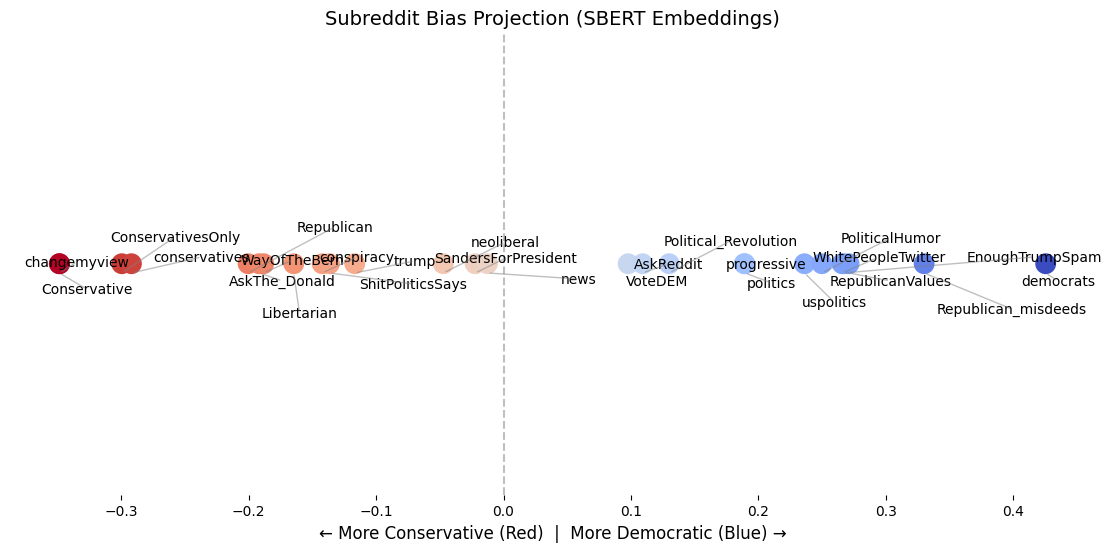
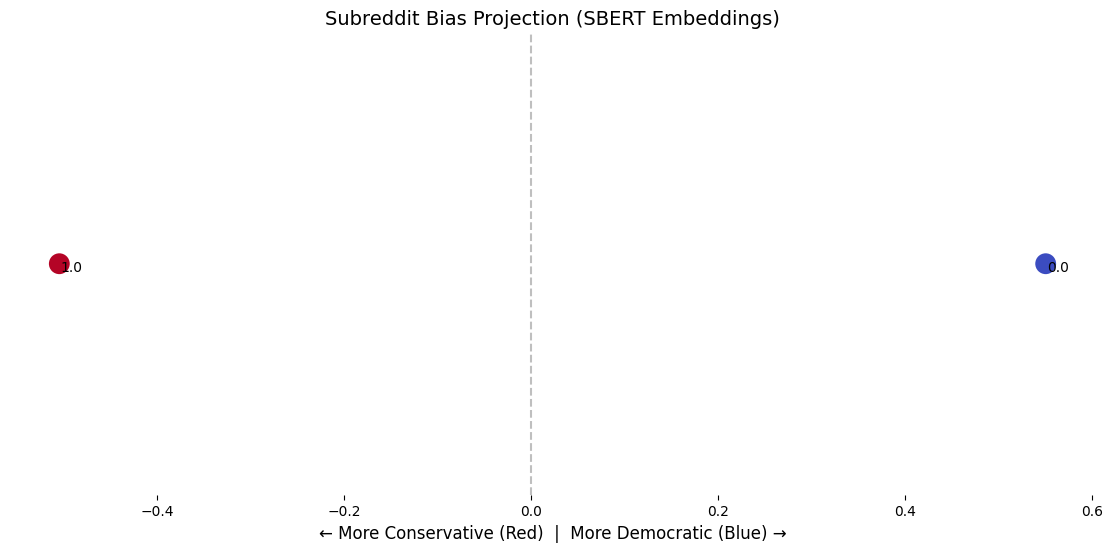
fix: topics

diff --git a/partisannet/data/topicmodule.py b/partisannet/data/topicmodule.py
@@ -4,13 +4,24 @@ from datasets import Dataset
 import os
 from partisannet.data.datamodule import get_dataloaders
 from partisannet.models.get_embeddings import generate_embeddings
-
-
+from sklearn.cluster import KMeans
+import numpy as np
 
 def get_topics(docs: list[str], num_topics: int | None = None, remove_stopwords: bool = False, embeddings=None, embedding_model=None) -> tuple[BERTopic, list[int], list[float]]:
 
     vectorizer = CountVectorizer(stop_words='english' if remove_stopwords else None, ngram_range=(1,2))
-    topic_model = BERTopic(nr_topics=num_topics, vectorizer_model=vectorizer, embedding_model=embedding_model)
+    hdbscan_model = None
+    if num_topics is not None:
+        print(f"Using K-Means to force {num_topics} balanced clusters...")
+        hdbscan_model = KMeans(n_clusters=num_topics, random_state=42)
+        # Set nr_topics to None because the clustering model already handles the count
+        nr_topics_arg = None 
+    else:
+        # Fallback to default behavior if no number is given
+        nr_topics_arg = "auto"
+
+    topic_model = BERTopic(nr_topics=nr_topics_arg, vectorizer_model=vectorizer, embedding_model=embedding_model, hdbscan_model=hdbscan_model)
+    
     if embeddings is not None:
         if hasattr(embeddings, "cpu"):
             embeddings = embeddings.cpu().numpy()
@@ -71,7 +82,6 @@ def include_topics(dataset: Dataset, num_topics: int | None = None, remove_stopw
         dataset = dataset.remove_columns('topic_prob')
 
     dataset = dataset.add_column('topic', topics)
-    dataset = dataset.add_column('topic_prob', probs)
 
     return dataset, topic_model
 
@@ -116,7 +126,9 @@ def load_topic_model(dataset_name: str, embedding_model=None, renew_cache=False,
 
     if os.path.exists(topic_model_cache_path) and not renew_cache:
         print("Loading topic model from disk...")
-        topic_model = BERTopic.load(topic_model_cache_path, embedding_model=embedding_model)        
+        topic_model = BERTopic.load(topic_model_cache_path, embedding_model=embedding_model)
+        centroid_matrix = np.load(os.path.join(topic_model_cache_path, "centroid_matrix.npy"))
+        topic_labels = np.load(os.path.join(topic_model_cache_path, "topic_labels.npy"), allow_pickle=True).tolist()
     else:
         dataloaders = get_dataloaders(dataset_name, batch_size=32, split=False, renew_cache=renew_cache)
         embeddings, partisan_labels, _ = generate_embeddings(dataloaders['train'], path = embedding_model)
@@ -125,9 +137,22 @@ def load_topic_model(dataset_name: str, embedding_model=None, renew_cache=False,
         topic_model.save(topic_model_cache_path, serialization="safetensors", save_embedding_model=True)
         print("Sample topics from dataset:")
         for i in range(5):
-            print(f"Doc: {ds[i]['text'][:50]}... Topic: {ds[i]['topic']}, Prob: {ds[i]['topic_prob']}")
+            print(f"Doc: {ds[i]['text'][:50]}... Topic: {ds[i]['topic']}")
+        unique_topics = sorted(list(set(ds['topic'])))
+        if -1 in unique_topics: unique_topics.remove(-1)
 
-    return topic_model
+        centroid_matrix = []
+        topic_labels = []
+        for topic in unique_topics:
+            
+            topic_embeddings = embeddings[ds['topic'] == topic]
+            centroid = topic_embeddings.mean(axis=0)
+            centroid_matrix.append(centroid)
+            topic_labels.append(topic_model.get_topic_info(topic)['Name']) 
+        centroid_matrix =  np.array(centroid_matrix)
+        np.save(os.path.join(topic_model_cache_path, "centroid_matrix.npy"), centroid_matrix)
+        np.save(os.path.join(topic_model_cache_path, "topic_labels.npy"), np.array(topic_labels, dtype=object))
+    return topic_model, centroid_matrix, topic_labels
 
 
 if __name__ == "__main__":

diff --git a/linerasure.py b/linerasure.py
@@ -348,7 +348,65 @@ if __name__ == "__main__":
     trained_embeddings = True
     test = True
 
-    topic_model = load_topic_model("DemRep", embedding_model="data/fine_tuned_sbert", renew_cache=False, num_topics=None, cluster_in_k=10)
+    centroid_test = True
+    
+    topic_model, X_centroids, topic_labels = load_topic_model("topic_data", embedding_model="data/centerloss_sbert", renew_cache=False, num_topics=30, cluster_in_k=None)
+    
+    if centroid_test:
+        from sentence_transformers import SentenceTransformer
+        
+        derived_direction = np.load('data/cached_data/political_axis.npy')
+        direction = derived_direction / np.linalg.norm(derived_direction)
+
+        def remove_component(embeddings, direction):
+            projections = (embeddings @ direction.T).reshape(-1, 1) * direction
+            return embeddings - projections
+
+        X_erased = remove_component(X_centroids, direction)
+
+        # --- 4. Plotting (PCA is usually better than UMAP for centroids) ---
+        from sklearn.decomposition import PCA
+
+        # Fit PCA on the ORIGINAL to define the axes, then transform both
+        # This keeps the "view" consistent so you can see them move
+        pca = PCA(n_components=2)
+        coords_orig = pca.fit_transform(X_centroids)
+        coords_erased = pca.transform(X_erased) # Use same axes!
+
+        # Visualization
+        fig, axes = plt.subplots(1, 2, figsize=(16, 8))
+
+        # Plot A: Original Centroids
+        # Color by their position on the political axis (X-axis usually captures variance)
+        sns.scatterplot(
+            x=coords_orig[:, 0], y=coords_orig[:, 1], 
+            s=100, hue=coords_orig[:, 0], palette="coolwarm", legend=False, ax=axes[0]
+        )
+        # Label a few important topics
+        for i, txt in enumerate(topic_labels):
+            if i % 5 == 0: # Label every 5th topic to avoid clutter
+                axes[0].text(coords_orig[i,0]+0.02, coords_orig[i,1], txt, fontsize=9)
+
+        axes[0].set_title("Original Topic Centroids (Politicized)")
+        axes[0].set_xlabel("Principal Component 1 (Likely Political)")
+
+        # Plot B: Erased Centroids
+        sns.scatterplot(
+            x=coords_erased[:, 0], y=coords_erased[:, 1], 
+            s=100, color="grey", ax=axes[1] # Grey because politics is gone!
+        )
+        for i, txt in enumerate(topic_labels):
+            if i % 5 == 0:
+                axes[1].text(coords_erased[i,0]+0.02, coords_erased[i,1], txt, fontsize=9)
+
+        axes[1].set_title("After Linear Erasure (Pure Semantics)")
+        axes[1].set_xlabel("Principal Component 1 (Politics Removed)")
+
+        plt.tight_layout()
+        plt.show()
+
+        exit()
+
     dataloaders = get_dataloaders("subreddits", batch_size=32, split=False, renew_cache=False)
     embeddings, partisan_labels, _ = generate_embeddings(dataloaders['train'], path = "data/fine_tuned_sbert")
     temp_ds = Dataset.from_dict({'text': dataloaders['train'].dataset['text']})

diff --git a/subreddit_plot.py b/subreddit_plot.py
@@ -17,17 +17,18 @@ if __name__ == "__main__":
     trained_embeddings = True
 
     
-    dataloaders = get_dataloaders("subreddits", batch_size=32, split=False, renew_cache=False)
-    embeddings, partisan_labels, subreddits = generate_embeddings(dataloaders['train'], path = "data/fine_tuned_sbert")
-    df =  pd.DataFrame({"embedding": list(embeddings), "subreddit": subreddits})
+    dataloaders = get_dataloaders("DemRep", batch_size=32, split=False, renew_cache=False)
+    embeddings, partisan_labels, subreddits = generate_embeddings(dataloaders['train'], path = "data/centerloss_sbert")
+    df =  pd.DataFrame({"embedding": list(embeddings), "subreddit": partisan_labels})
     
     subreddit_centroids = df.groupby('subreddit')['embedding'].apply(
         lambda x: np.mean(np.vstack(x), axis=0)
     ).to_dict()
     print(subreddit_centroids.keys())
     # 1. Define the poles
-    vec_dem = subreddit_centroids['democrats']       # The "Left" Pole
-    vec_con = subreddit_centroids['Conservative']   # The "Right" Pole
+    np.save('data/cached_data/political_axis.npy', subreddit_centroids[0] - subreddit_centroids[1])  # Save the political axis for future use
+    vec_dem = subreddit_centroids[0]       # The "Left" Pole
+    vec_con = subreddit_centroids[1]   # The "Right" Pole
 
     # 2. Construct the Axis Vector
     # (Dem - Con) creates a vector pointing towards the Democrat side

diff --git a/partisannet/data/datamodule.py b/partisannet/data/datamodule.py
@@ -67,7 +67,11 @@ def load_datasets(dataset_name: str) -> Dataset:
         project_root = script_dir.parent.parent
         csv_path = project_root / "data" / "Training_data" / "subreddits.csv"
         ds = load_dataset("csv", data_files=str(csv_path), split="train")
-        
+    elif dataset_name == "topic_data":
+        script_dir = Path(__file__).resolve().parent
+        project_root = script_dir.parent.parent
+        csv_path = project_root / "data" / "Training_data" / "topics_data.csv"
+        ds = load_dataset("csv", data_files=str(csv_path), split="train") 
     else:
         raise ValueError(f"Dataset {dataset_name} not supported.")
     return ds
